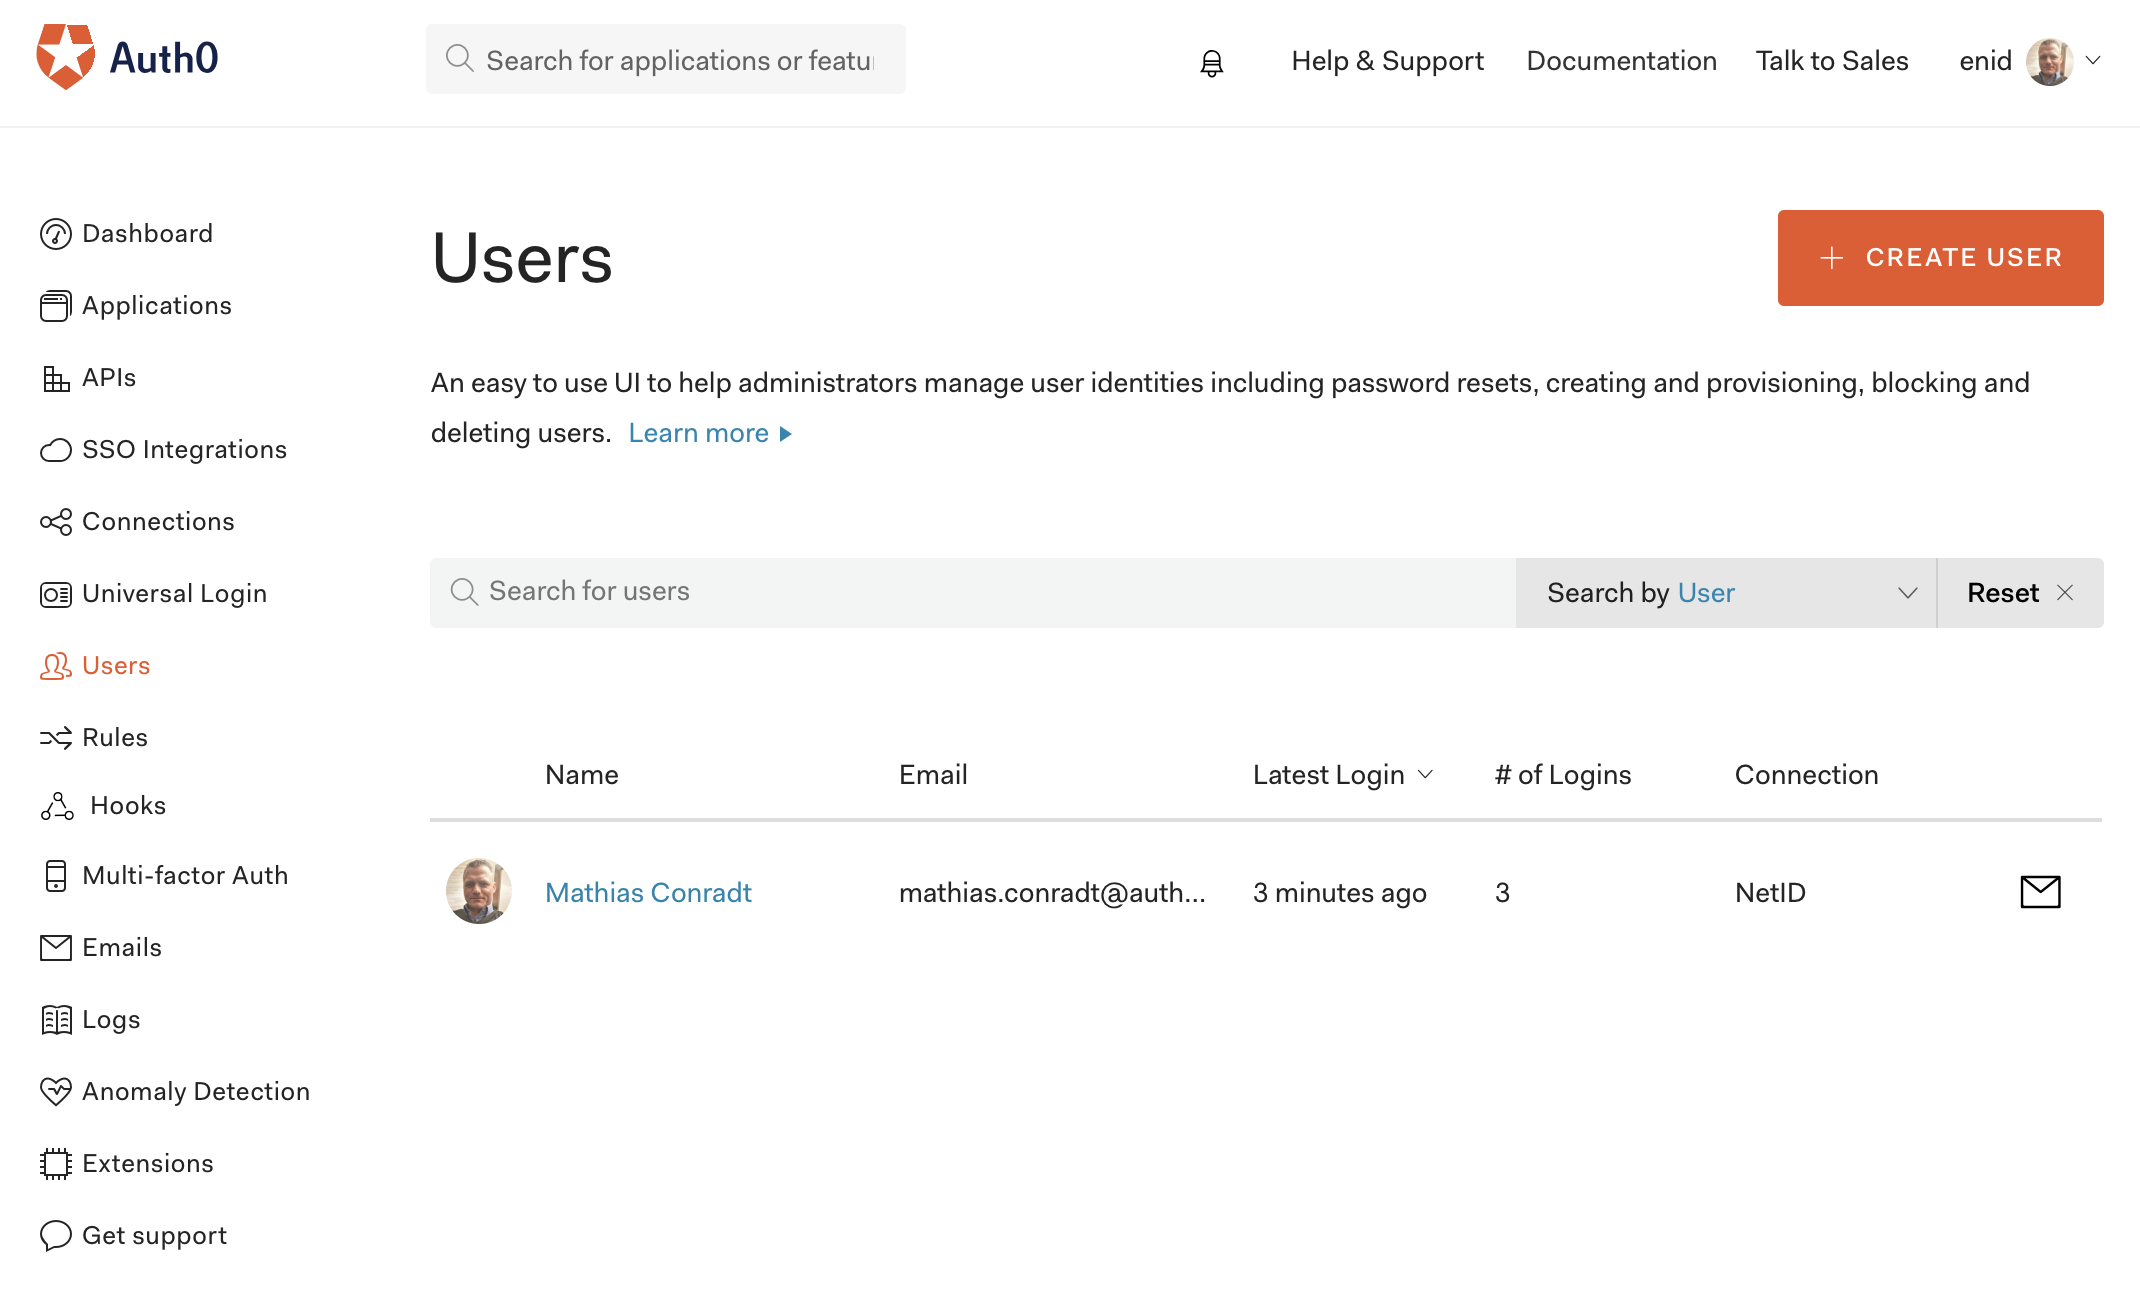
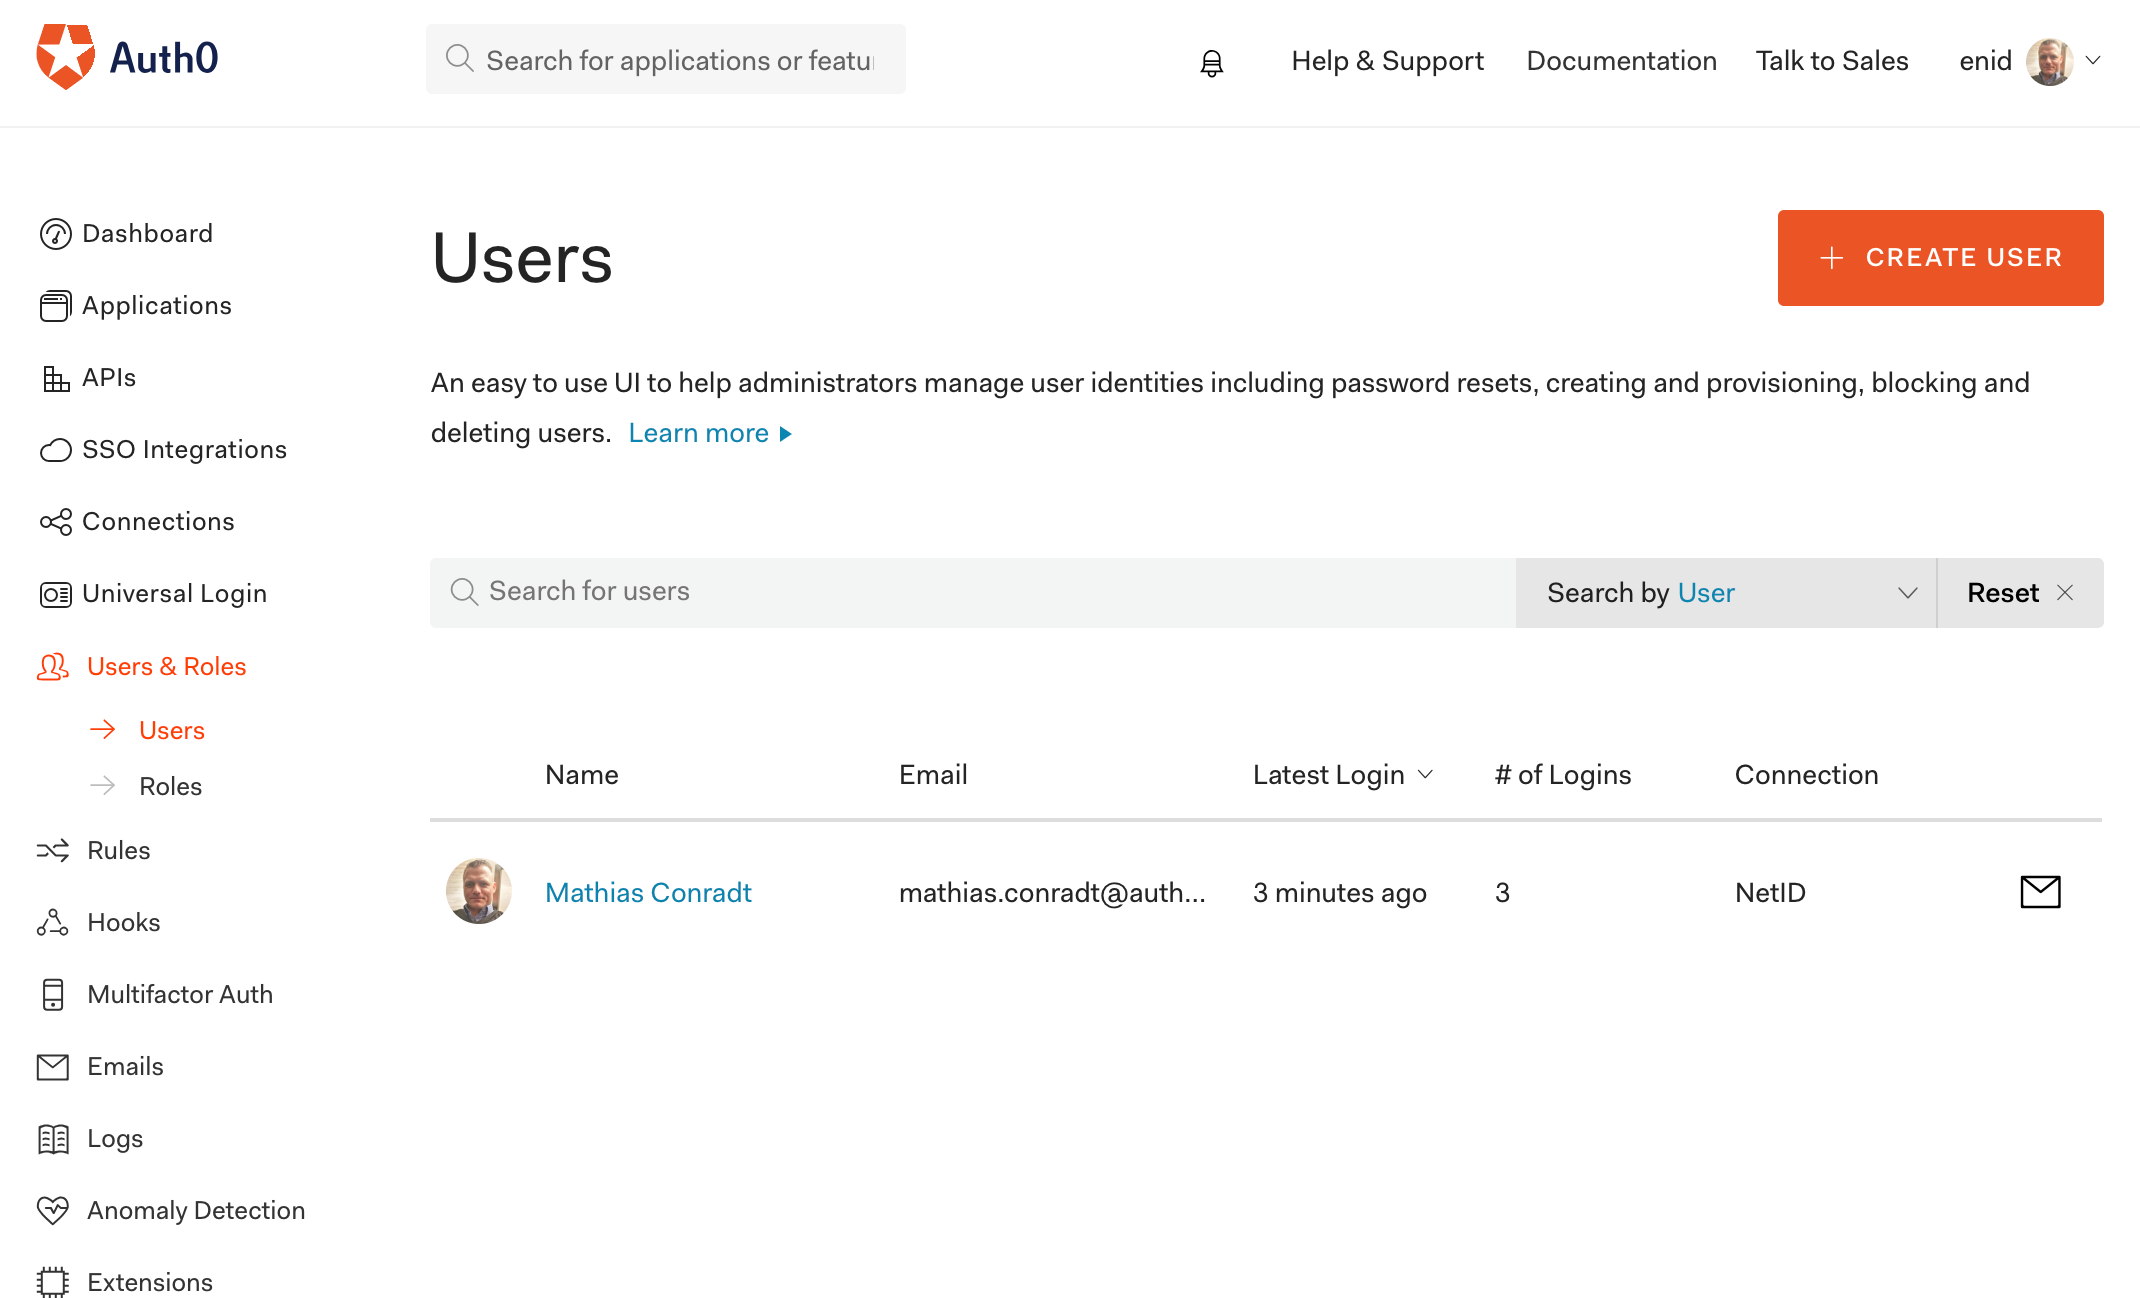
fix broken link; updated screenshots to new Auth0 dashboard UI

diff --git a/README.md b/README.md
@@ -42,7 +42,7 @@ Furthermore, we assume that you have already registered a service provider accou
 In the end it should look similar to this:
 ![Placeholder](img/netid-create-client-2.png)
 4. Once the client is created it will initially run in a sandboxed mode, which means it can only be used with whitelisted netID-Accounts (email addresses). In order to successfully run through the initial integration add a
-test user (mail address) to the whitelist by selecting `Testnutzer hinzufügen` (Add Test-Account), outlined [here](https://developerzone.netid.de/developerportal/testnutzer/.testnutzer-anlegen.html#indexlink_help_developerportal_testnutzer). Up to 10 accounts can be whitelisted per sandboxed client.
+test user (mail address) to the whitelist by selecting `Testnutzer hinzufügen` (Add Test-Account), outlined [here](https://developerzone.netid.de/developerportal/testnutzer/testnutzer-anlegen.html). Up to 10 accounts can be whitelisted per sandboxed client.
 5. Fetch **Client ID** and **netID Token - Sandbox** (later refered to as **client secret**) for the Auth0 configuration by expanding the client details      
 ![Placeholder](img/netid-client-details-1.png)
 
